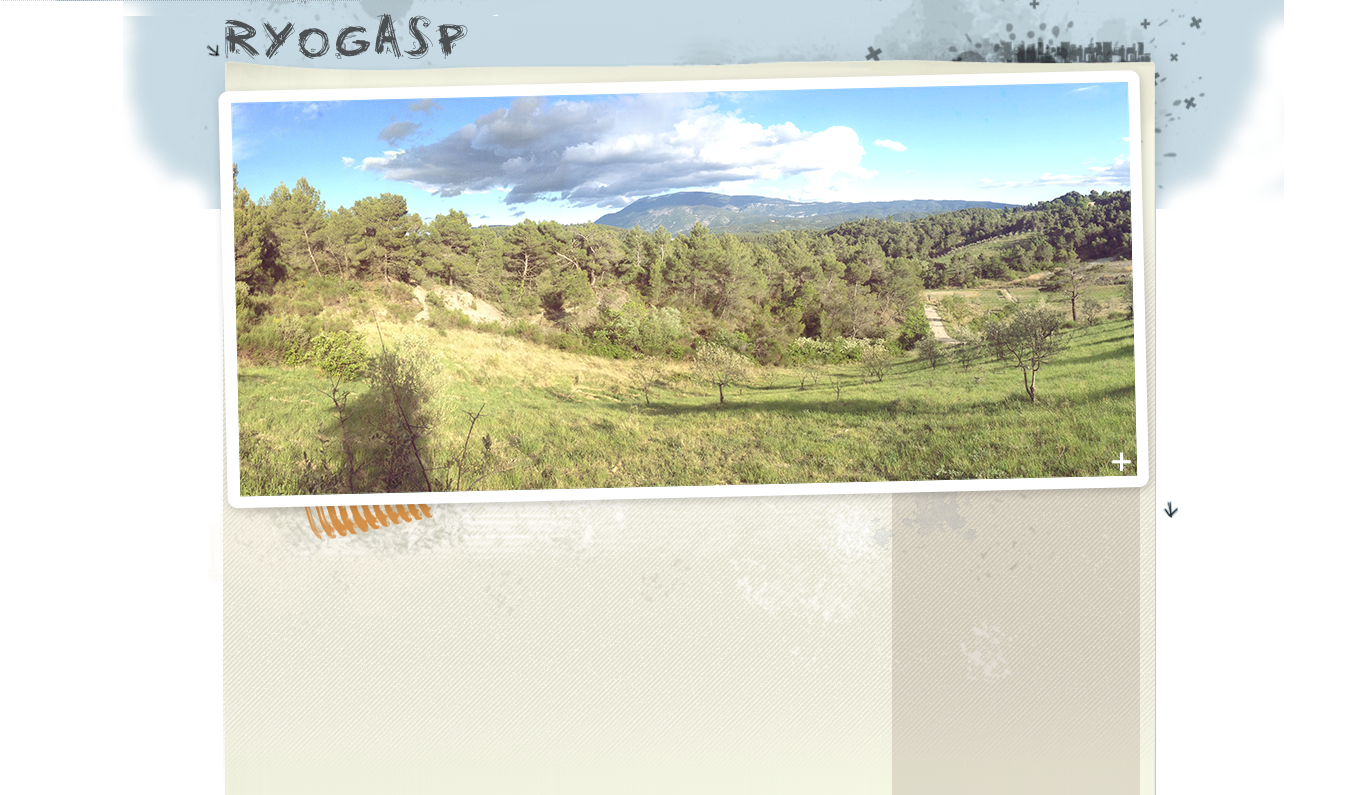
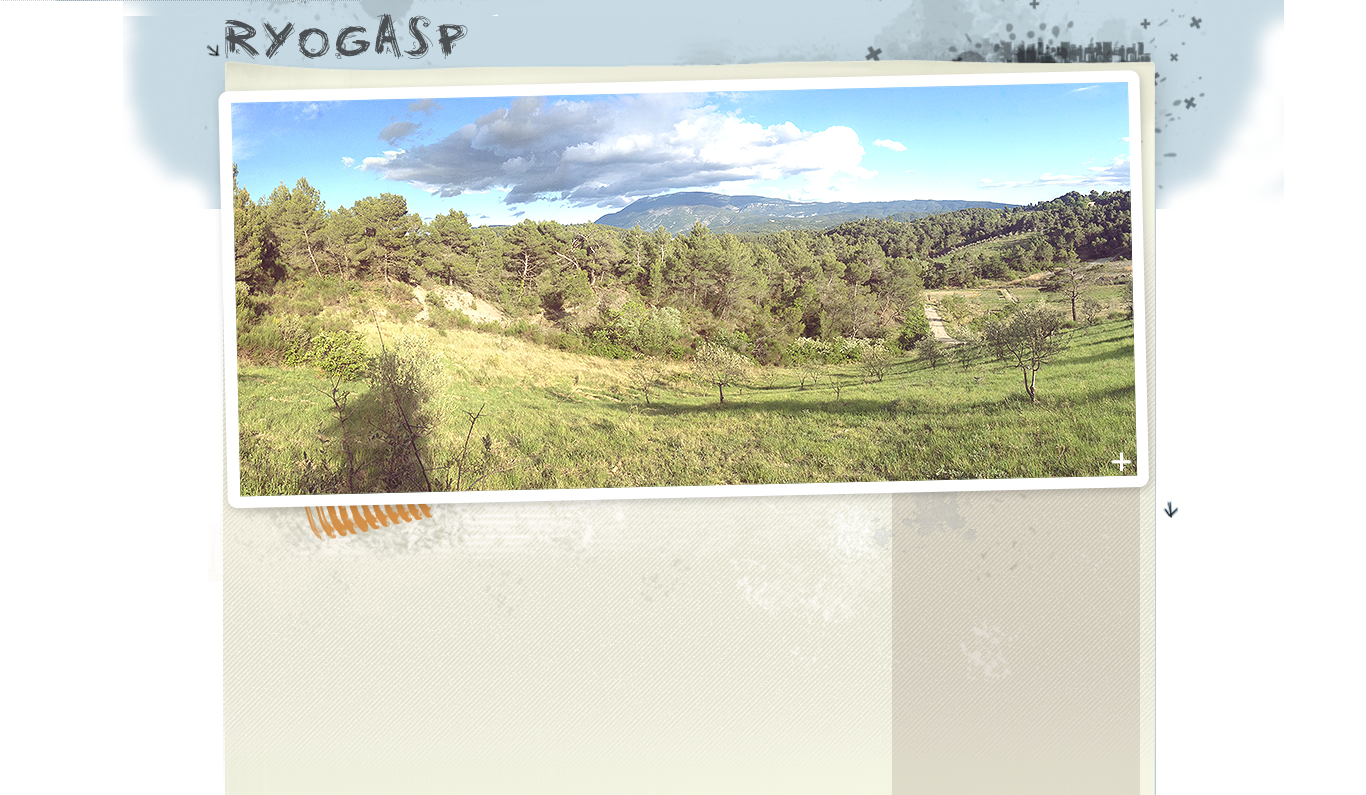
thème sommaire: été 2015 black text

diff --git a/squelettes/css/img/sommaire/2015-ete/theme.css b/squelettes/css/img/sommaire/2015-ete/theme.css
@@ -1,0 +1,10 @@
+/* theme pour hiver 2015 */
+#une{
+	width:850px;
+	padding-top:150px;
+	color:#000;
+}
+
+#une a{
+	color:#000;
+}
